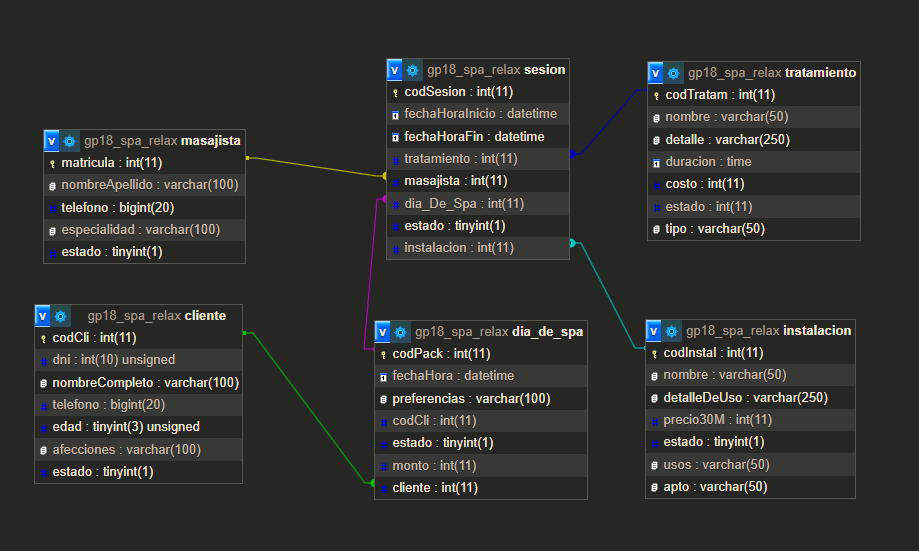
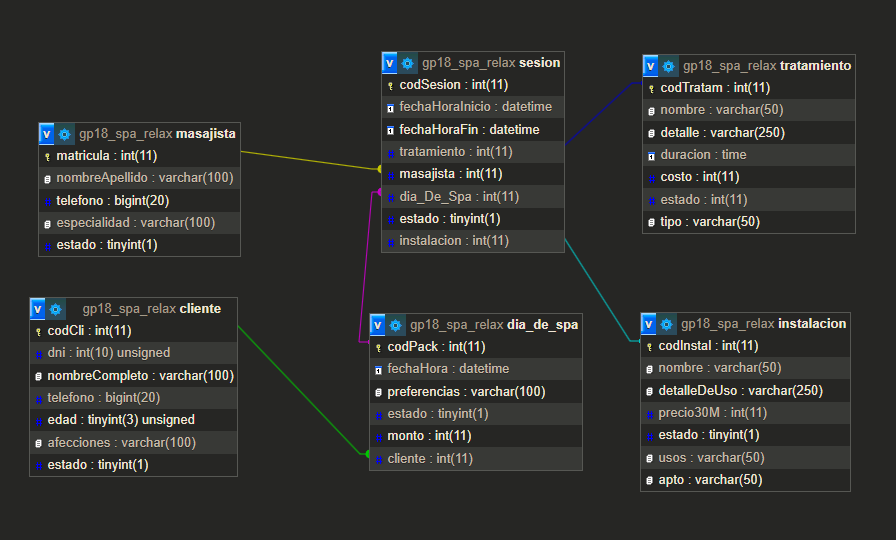
Se realiza cambio bases de datos
Se quita codCli de DiaDeSpa(se repetia) Se agrega metodos a diaSpaData y se cambia diaSpa

diff --git a/src/Entidades/DiaSpa.java b/src/Entidades/DiaSpa.java
@@ -1,20 +1,24 @@
 
 package Entidades;
 
-import java.time.LocalDate;
+import java.time.LocalDateTime;
 import java.util.ArrayList;
 import java.util.List;
 
 
 public class DiaSpa {
    private int codPack = -1;
-   private LocalDate fechayH;
+   private LocalDateTime fechayH;
+   private String prefencias;
+   private int cliente;
    private List<Sesion> sesiones = new ArrayList();
    private int monto;
    private boolean estado;
    
-   public DiaSpa(LocalDate fechayH, int monto, boolean estado){
+   public DiaSpa(LocalDateTime fechayH, String preferencias, int cliente, int monto, boolean estado){
        this.fechayH = fechayH;
+       this.prefencias = preferencias;
+       this.cliente = cliente;
        this.monto = monto;
        this.estado = estado;
    }
@@ -30,10 +34,10 @@ public class DiaSpa {
             this.codPack = codPack;
         }
 
-    public LocalDate getFechayH() {
+    public LocalDateTime getFechayH() {
         return fechayH;
     }
-        public void setFechayH(LocalDate fechayH) {
+        public void setFechayH(LocalDateTime fechayH) {
             this.fechayH = fechayH;
         }
 
@@ -43,6 +47,25 @@ public class DiaSpa {
         public void setSesiones(List<Sesion> sesiones) {
             this.sesiones = sesiones;
         }
+
+    public String getPrefencias() {
+        return prefencias;
+    }
+
+    public void setPrefencias(String prefencias) {
+        this.prefencias = prefencias;
+    }
+
+    public int getCliente() {
+        return cliente;
+    }
+
+    public void setCliente(int cliente) {
+        this.cliente = cliente;
+    }
+    
+    
+            
 
     public int getMonto() {
         return monto;

diff --git a/src/Control/DiaSPAData.java b/src/Control/DiaSPAData.java
@@ -8,6 +8,7 @@ import java.sql.ResultSet;
 import java.sql.Date;
 import java.sql.SQLException;
 import java.sql.Statement;
+import java.sql.Timestamp;
 import java.util.ArrayList;
 import java.util.List;
 import javax.swing.JOptionPane;
@@ -19,6 +20,43 @@ public class DiaSPAData {
     public DiaSPAData(){
         this.con = Conexion.getConexion();
     }
+    
+    //INSERT
+    public void crearDiaSpa(DiaSpa d) {
+        
+        String query = "INSERT INTO dia_de_spa(fechaHora, preferencias, estado, monto, cliente) VALUES (?,?,?,?,?,?)";
+        
+        try {
+            
+            PreparedStatement ps = con.prepareStatement(query, Statement.RETURN_GENERATED_KEYS);
+            
+            ps.setTimestamp(1, Timestamp.valueOf(d.getFechayH()));
+            ps.setString(2, d.getPrefencias());
+            ps.setBoolean(3, d.isEstado());
+            ps.setInt(4, d.getMonto());
+            ps.setInt(5, d.getCliente());
+            
+            if (ps.executeUpdate() > 0) {
+                
+                JOptionPane.showMessageDialog(null, "Se ha creado el día de spa con éxito!");
+                
+            }
+            
+            ResultSet rs = ps.getGeneratedKeys();
+            
+            if (rs.next()) {
+                
+                d.setCodPack(rs.getInt(1));
+                
+            }
+            
+        } catch (SQLException ex) {
+            JOptionPane.showMessageDialog(null, "No pudo crearse el dia de spa " + ex.getMessage());
+        }
+                
+    }
+    
+    
     
     
 }

diff --git a/src/Entidades/prueba.java b/src/Entidades/prueba.java
@@ -1,7 +1,7 @@
 
 package Entidades;
 
-import java.time.LocalDate;
+import java.time.LocalDateTime;
 import Control.*;
 import java.time.LocalTime;
 import java.util.Date;
@@ -9,7 +9,7 @@ import java.util.Date;
 public class prueba {
     public static void main(String[] args){
     //CLASES ENTIDADES.....................................................................................
-    DiaSpa diaS = new DiaSpa(LocalDate.of(25, 12, 1),1500, true);
+    DiaSpa diaS = new DiaSpa(LocalDateTime.now(),"facial",1, 1500, true);
     
     Masajista ma1 = new Masajista(1111,"Gloria Rosales",255512,"Facial",true);
     Masajista ma2 = new Masajista(3333,"Mario Gonzales",2321312,"Corporal",true);
